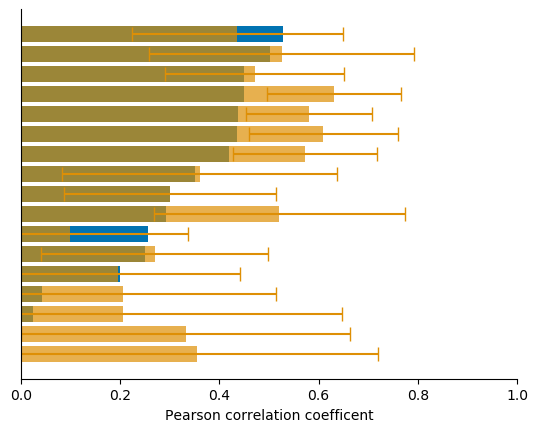
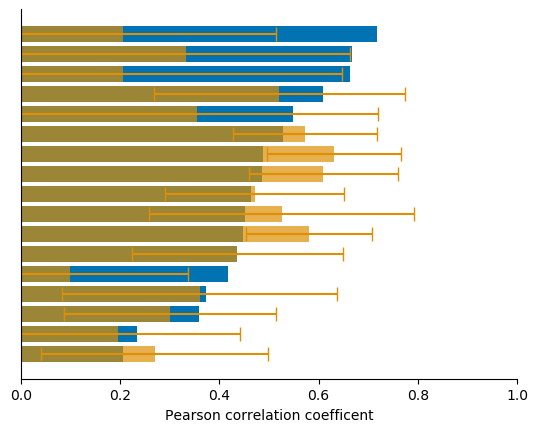
correct combined features to use all plants features instead of only the last

diff --git a/Code/Analysis Tools/DetailedCorrelationDataPlotter.py b/Code/Analysis Tools/DetailedCorrelationDataPlotter.py
@@ -202,7 +202,7 @@ class DetailedCorrelationDataPlotter (object):
             self.doScatterPlot(self.dataPoints1[:, idx], self.dataPoints2[:, idx],
                     ax=ax_i, marker=markers[idx], labels=colNames[idx],
                     boxLoc="top-left", fontSize=14)
-        plt.savefig(self.baseFolder + "Figure 4 Sups part{}.png".format(j), bbox_inches="tight")
+        plt.savefig(self.baseFolder + "Figure Sups part{}.png".format(j), bbox_inches="tight")
         plt.close()
 
     def doZNormalise(self, twoDArray, useParameters=None, returnParameter=False):
@@ -286,6 +286,16 @@ class DetailedCorrelationDataPlotter (object):
             if showPlot:
                 plt.show()
 
+def combinFeatures(baseFolder, plantNames):
+    actualFeatures = []
+    predFeatures = []
+    for plant in plantNames:
+        actualFeatures.append(np.load("./{}{}/actualFeatures.npy".format(baseFolder, plant)))
+        predFeatures.append(np.load("./{}{}/predFeatures.npy".format(baseFolder, plant)))
+    actualFeatures = np.concatenate(actualFeatures, axis=0)
+    predFeatures = np.concatenate(predFeatures, axis=0)
+    return actualFeatures, predFeatures
+
 def plotFeaturesCorrelationOfPredVsObsPropagation():
     sys.path.insert(0, "./Code/Propagation/")
     # so actually dont load correlations to do correlation plots?
@@ -313,13 +323,7 @@ def plotFeaturesCorrelationOfPredVsObsPropagation():
                                                folderToLoad=folderToLoadRandomCor,
                                                printOut=False)
         givenCorrelation = np.asarray(givenCorrelation)
-    actualFeatures = []
-    predFeatures = []
-    for plant in plantNames:
-        actualFeatures.append(np.load("./{}{}/actualFeatures.npy".format(baseFolder, plant)))
-        predFeatures.append(np.load("./{}{}/predFeatures.npy".format(baseFolder, plant)))
-    actualFeatures = np.concatenate(actualFeatures, axis=0)
-    predFeatures = np.concatenate(predFeatures, axis=0)
+    actualFeatures, predFeatures = combinFeatures(baseFolder, plantNames)
     if ignoreFeaturesIdx:
         featuresToKeep = np.arange(len(colNames))
         featuresToKeep = featuresToKeep[np.isin(featuresToKeep, ignoreFeaturesIdx, invert=True)]
@@ -365,5 +369,5 @@ def compareModelPredictedVsRandomPropagationFeatureCorrelations(baseFolder="Resu
                                                         filenameToSave=filenameToSave)
 
 if __name__ == '__main__':
-    # compareModelPredictedVsRandomPropagationFeatureCorrelations()
+    compareModelPredictedVsRandomPropagationFeatureCorrelations()
     plotFeaturesCorrelationOfPredVsObsPropagation()

diff --git a/Code/Propagation/DivAndTopoPredictor.py b/Code/Propagation/DivAndTopoPredictor.py
@@ -563,8 +563,7 @@ def calculateCombinedCorrelations(baseResultsFolder="Results/DivAndTopoApplicati
     allExpectedFeatures = np.concatenate(allExpectedFeatures, axis=0)
     allPredictedFeatures = np.concatenate(allPredictedFeatures, axis=0)
     correlations = DivAndTopoPredictor(divPredModel=None, topoPredModel=None, divSampleData=None, baseFolder=None,
-                 plant=None, timePoints=None, divSampleLabel=None, run=False).correlateFeatures(predFeatures, actualFeatures)
-    print(correlations)
+                 plant=None, timePoints=None, divSampleLabel=None, run=False).correlateFeatures(allExpectedFeatures, allPredictedFeatures)
     np.save(baseResultsFolder + "correlations.npy", correlations)
 
 def propagateAndCorrelateTissues():
